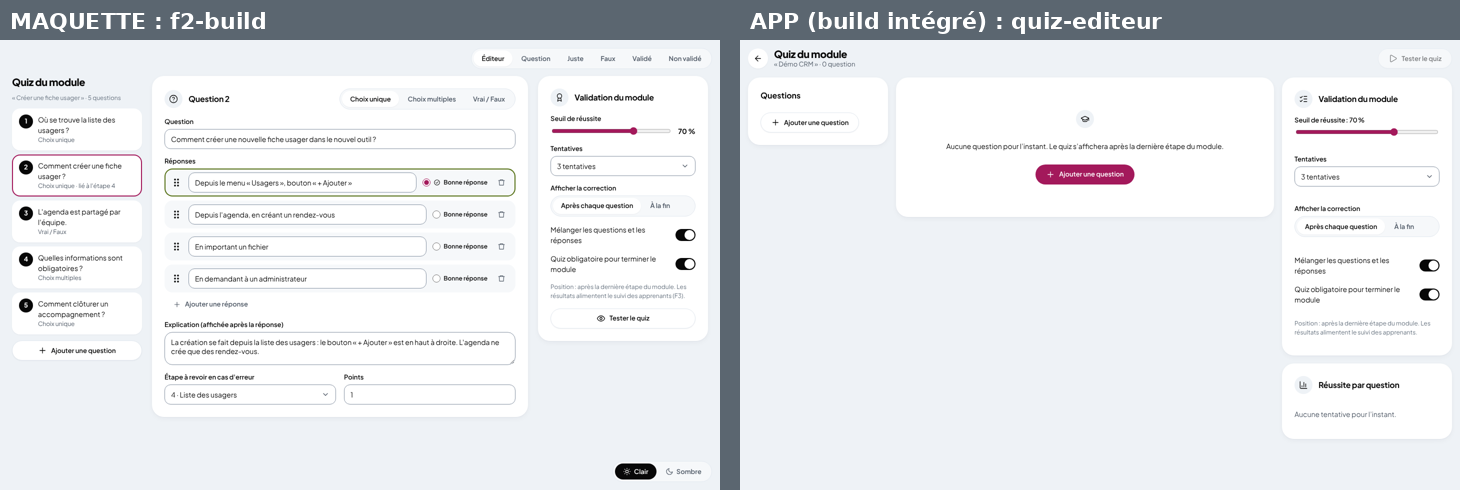
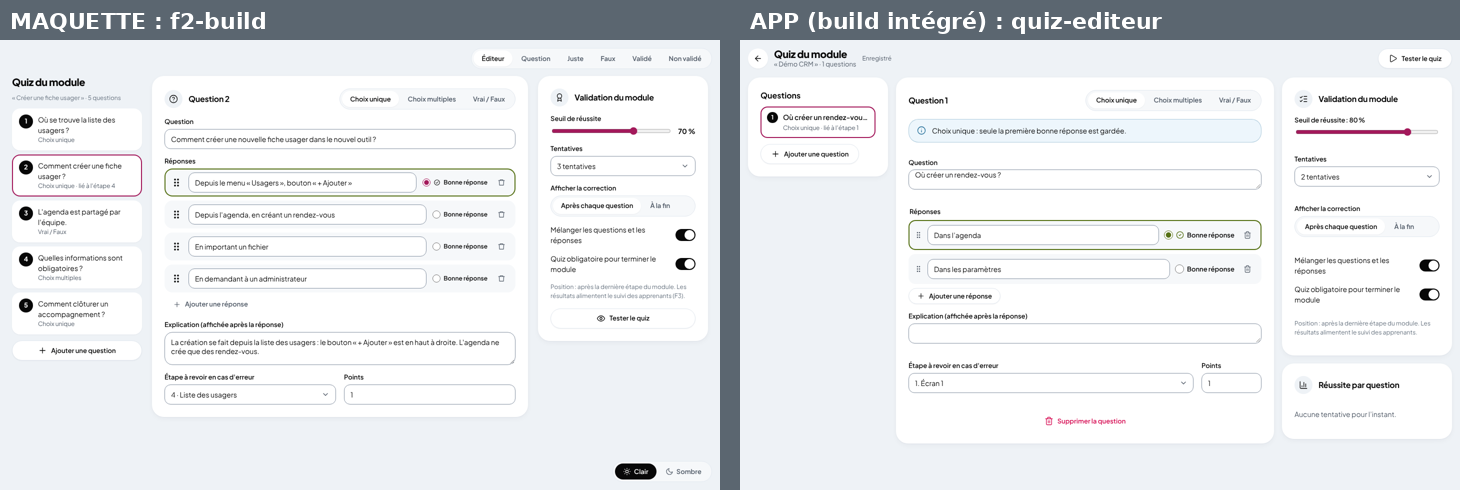
Conformité, lot 4 : F1 (vérification des flous, publication publique) et F2 (éditeur du quiz, quiz dans le player)
- conformite.md : sections 14 et 15, synthèse complète (plus aucun écran sans maquette)
- images côte à côte : f1-flous, f1-rgpd, quiz-editeur, quiz-question, quiz-correction, quiz-reussite, quiz-echec

Claude-Session: https://claude.ai/code/session_016yn81XNDaqi4emq7ho6CNv

diff --git a/docs/ux/conformite.md b/docs/ux/conformite.md
@@ -31,8 +31,10 @@
 | Paramètres du workspace | `refonte/ecrans-compte.html?view=workspace` | `conformite/parametres-workspace.png` | ❌ NON CONFORME (5 écarts) |
 | Plans | `refonte/ecrans-compte.html?view=plans` | `conformite/plans.png` | ❌ NON CONFORME (4 écarts) |
 | Player : étape et bulle, formulaire de lead, fin | `refonte/player.html?view=etape,formulaire,fin` | `conformite/player-*.png` | ❌ NON CONFORME (7 écarts) |
-| F1 : vérification des flous, modale RGPD | `refonte/f1-formation.html` | à produire | 🔜 |
-| F2 : quiz (éditeur et player) | `refonte/f2-quiz.html` | `conformite/quiz-editeur.png` | 🔜 |
+| F1 : vérification des flous | `refonte/f1-formation.html` (vue Flous) | `conformite/f1-flous.png` | ❌ NON CONFORME (6 écarts) |
+| F1 : publication publique (RGPD) | `refonte/f1-formation.html?view=rgpd` | `conformite/f1-rgpd.png` | ❌ NON CONFORME (3 écarts) |
+| F2 : éditeur du quiz | `refonte/f2-quiz.html?view=build` | `conformite/quiz-editeur.png` | ❌ NON CONFORME (5 écarts) |
+| F2 : quiz dans le player (question, correction, résultats) | `refonte/f2-quiz.html?view=q,ok,ko,pass,fail` | `conformite/quiz-*.png` | ❌ NON CONFORME (7 écarts) |
 
 > **Maquettes obsolètes.** Les maquettes d'origine (`docs/ux/maquettes/*.html`) datent d'avant la refonte. Elles portent l'ancienne identité et des contenus abandonnés : prix, offres Solo / Team, « Démo centers V2 », factures, connexion Google. **Elles ne sont plus une référence.** Les maquettes de refonte qui les remplacent sont `refonte/ecrans-compte.html` et `refonte/auth.html` (lot 2). Le player a sa maquette de refonte : `refonte/player.html`.
 >
@@ -273,3 +275,48 @@ Maquette : `refonte/player.html` (`?view=etape,formulaire,fin`, `&theme=dark`, e
 | PY-5 | Formulaire de lead | Voile **sur la capture seulement** (l'en-tête et le CTA restent lisibles) ; titre, description, « E-mail professionnel * », case de consentement, ligne « Données traitées par {{workspace}}. Politique de confidentialité » (lien), bouton « Continuer » avec flèche à droite | Voile sur toute la page (CTA grisé), libellé « Email * », pas de ligne sur le traitement des données | Comme la maquette. La ligne « Données traitées par… » est **toujours** affichée ; le lien n'apparaît que si une politique est renseignée (Paramètres du workspace) | — |
 | PY-6 | Fin d'une démo simple | Dernière étape : le bouton de la bulle devient « **Terminer** » et ouvre la modale de fin (puce de succès, « Tutoriel terminé », « Vous avez parcouru les n étapes de « titre ». », CTA de la page en primaire, « Recommencer » en fantôme) | **Pas d'écran de fin** : le → de la barre est désactivé et la bulle garde « Suivant » sans effet | Ajouter l'écran de fin. Sans CTA de page, seul « Recommencer » est affiché, en secondaire. Avec un quiz (F2), la fin du quiz garde son propre écran | — |
 | PY-7 | Mobile (≤ 720 px) | La bulle devient une **feuille du bas** au-dessus de la barre ; le formulaire et la fin s'ouvrent en feuille du bas ; « Chapitres », méta, langue et plein écran sont masqués | Non vérifié sur l'app à 390 px | À appliquer, puis je le vérifie en recette | — |
+
+## 14. F1 : vérification des flous et publication publique
+
+Maquette : `refonte/f1-formation.html` (vues Flous et RGPD). Images : `conformite/f1-flous.png`, `conformite/f1-rgpd.png` (captures de la recette F1).
+
+| N° | Zone | Maquette | App | Correction | Décision |
+|---|---|---|---|---|---|
+| FL-1 | En-tête | Symbole TutoClick, titre, sous-titre « module · n captures · rien n'a encore quitté votre navigateur », badge « Analyse terminée » | Symbole DSI | Symbole TutoClick (voir G-1) | — |
+| FL-2 | Capture | **Aperçu réel du flou** sur chaque zone, cadre framboise plein si la zone sera floutée, pointillé si elle ne le sera pas, bleu si elle est sélectionnée | Rectangles roses pleins, sans aperçu du flou | Afficher le flou tel qu'il sera appliqué, avec les 3 cadres de la légende | — |
+| FL-3 | Vignettes | Libellé « n · titre » et pastille du nombre de détections **à droite du libellé**, sous la vignette | Pastille en haut à droite de la vignette | Comme la maquette | — |
+| FL-4 | Détections | Chaque détection est une **carte bordée** (puce d'icône, type, valeur masquée en mono, interrupteur) ; la carte sélectionnée a une bordure bleue | Lignes simples, sans carte | Cartes de la maquette | — |
+| FL-5 | Sous la liste | Phrase qui nomme les détections **non floutées** (« La date de naissance et l'adresse ne seront pas floutées. Vérifiez qu'il s'agit bien de données fictives. »), puis « Tout flouter sur cette capture » avec une coche | Bouton sans icône ; phrase non vérifiable (tout était activé) | Icône coche ; phrase affichée dès qu'une détection est désactivée | — |
+| FL-6 | Pied | « Annuler la capture » en **bouton secondaire**, puis le primaire « Flouter et envoyer n captures » avec l'icône d'envoi | « Annuler la capture » en lien framboise ; primaire sans icône | Comme la maquette | — |
+| RP-1 | Résumé de la modale RGPD | Lignes simples, sans fond ; les détections non floutées en **gras** avec l'étape | Encadré sur fond `surface-sunken` | Lignes de la maquette | — |
+| RP-2 | Restreindre l'accès | Ligne « Besoin de restreindre l'accès ? Choisir Invitation, Domaine e-mail ou Mot de passe. » (liens vers l'onglet Accès) | Absente | Ajouter | — |
+| RP-3 | Aide « Cochez les deux confirmations pour publier. » | **Sous** les boutons, alignée à droite | Au-dessus des boutons, à gauche | Comme la maquette | — |
+
+Le bouton « Revoir l'étape n » de la modale n'apparaît que s'il reste des détections non floutées. Il n'a pas pu être vérifié avec les données de test.
+
+## 15. F2 : quiz (éditeur et player)
+
+Maquette : `refonte/f2-quiz.html` (`?view=build,q,ok,ko,pass,fail`). Images : `conformite/quiz-editeur.png`, `quiz-question.png`, `quiz-correction.png`, `quiz-reussite.png`, `quiz-echec.png`. Les captures du player viennent de la recette F2 : la marque y est encore « Tutoclic », ce qui est un écart (G-2 : « TutoClick » partout).
+
+### Éditeur du quiz
+
+| N° | Zone | Maquette | App | Correction | Décision |
+|---|---|---|---|---|---|
+| QE-1 | En-tête | Titre « Quiz du module » au-dessus de la liste, bouton « Tester le quiz » dans la carte « Validation » | Barre d'en-tête avec retour ←, titre, « Enregistré », et « Tester le quiz » en haut à droite | Garder l'en-tête de l'app (cohérent avec l'éditeur) ; retirer « Tester le quiz » de la carte | **À ajouter à la maquette** |
+| QE-2 | Liste des questions | Cartes posées sur le fond, sans carte englobante | Carte « Questions » qui englobe la liste | Retirer la carte englobante | — |
+| QE-3 | Carte de la question | Puce d'icône « ? » devant « Question n » ; pas d'alerte | Pas de puce ; alerte info « Choix unique : seule la première bonne réponse est gardée. » | Ajouter la puce ; retirer l'alerte (le bouton radio suffit) | — |
+| QE-4 | Seuil de réussite | Libellé seul, valeur « 70 % » **à droite du curseur** | Valeur dans le libellé (« Seuil de réussite : 80 % ») | Comme la maquette | — |
+| QE-5 | Bas de la carte | Rien | « Supprimer la question » centré | Garder, en bouton fantôme danger **aligné à gauche** | **À ajouter à la maquette** |
+| QE-6 | Carte « Réussite par question » | Absente | Présente (« Aucune tentative pour l'instant. ») | Garder | **À ajouter à la maquette** |
+
+### Quiz dans le player
+
+| N° | Zone | Maquette | App | Correction | Décision |
+|---|---|---|---|---|---|
+| QP-1 | Barre du player | **Absente** pendant le quiz | Présente, avec progression orange et compteur des étapes | Masquer la barre pendant le quiz (déjà relevé en recette, F2-1) | — |
+| QP-2 | Progression du quiz | Barre **prune** entre « Question n sur N » et « Seuil : x % », sur la même ligne | Barre orange sous la ligne | Comme la maquette (pas d'orange dans l'interface) | — |
+| QP-3 | Question | Bouton « Précédente » en bas à gauche à partir de la question 2 | Absent | Ajouter | — |
+| QP-4 | Correction | Encadré avec icône (`xCircle` ou `checkCircle`), titre en gras et explication ; **sous** l'encadré, bouton secondaire « Revoir l'étape n du module » à gauche et « Question suivante → » à droite | Lien « Revoir l'étape 1 du module » dans l'encadré, sans icône ; pas de flèche sur le bouton | Comme la maquette | — |
+| QP-5 | Résultat, liste | Questions **sans numéro**, « Revoir » à droite de chaque erreur liée à une étape | Questions numérotées | Retirer les numéros | — |
+| QP-6 | Résultat, actions | Réussite : « Repasser le quiz » à gauche, primaire « Module suivant : titre → » à droite (ou CTA de fin s'il n'y a pas de module suivant). Échec : « Revoir le module » avec icône à gauche, « Réessayer le quiz » à droite | Réussite : « Terminer » seul, centré. Échec : 2 boutons centrés | Boutons de la maquette, en bas, aux deux extrémités | — |
+| QP-7 | Marque | « Créé avec TutoClick » | « Créé avec Tutoclic » | Nom exact « TutoClick » (G-2) | — |
